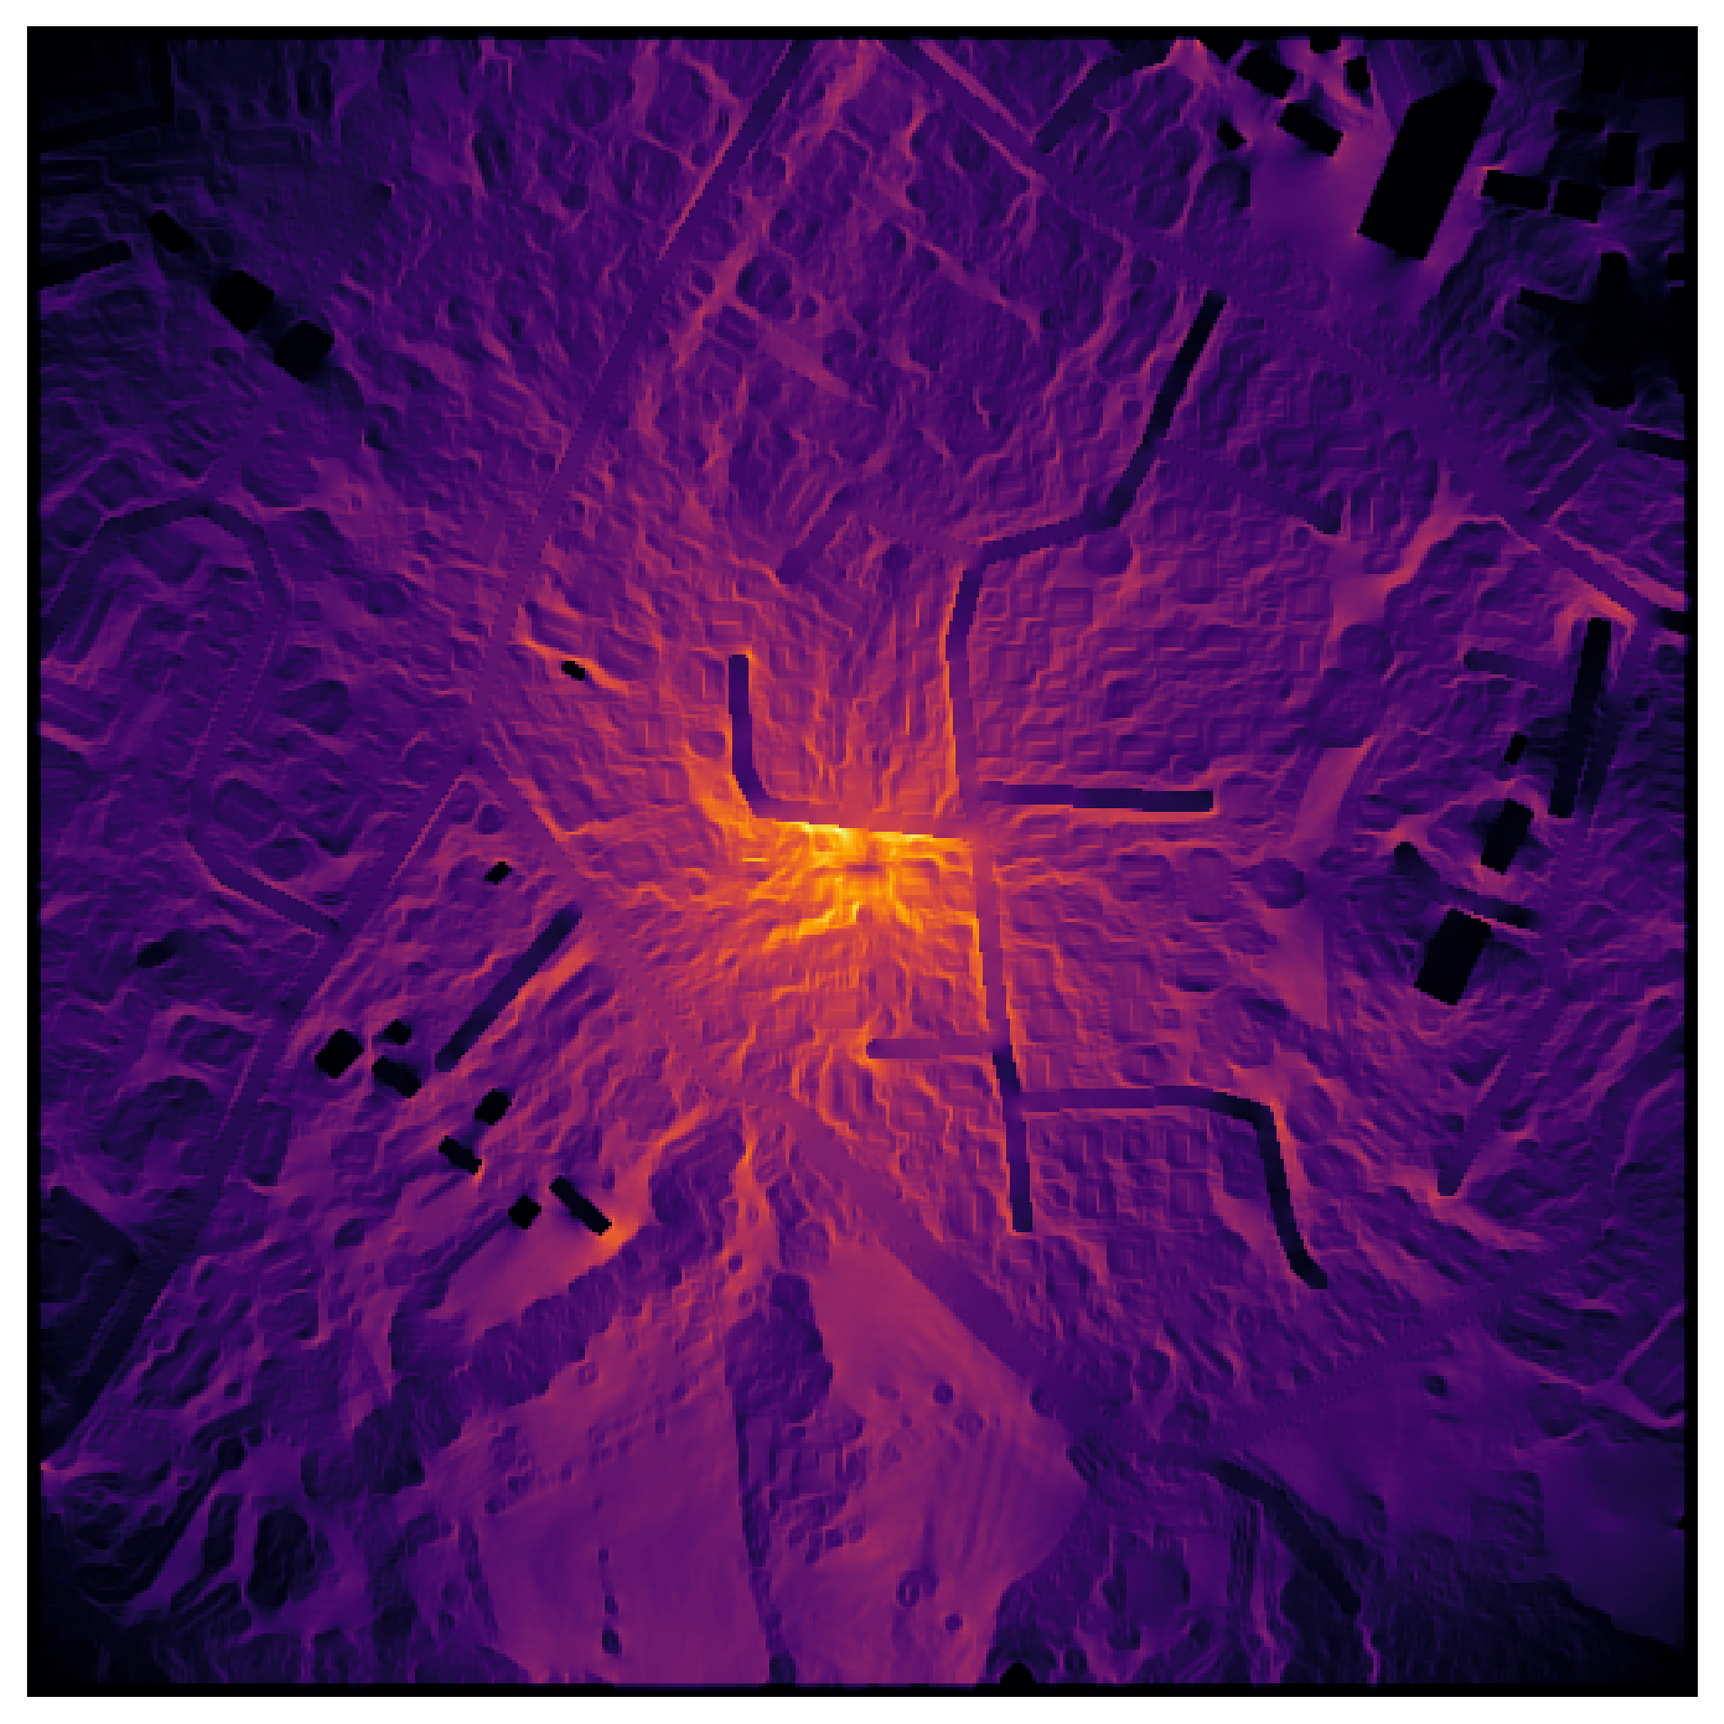
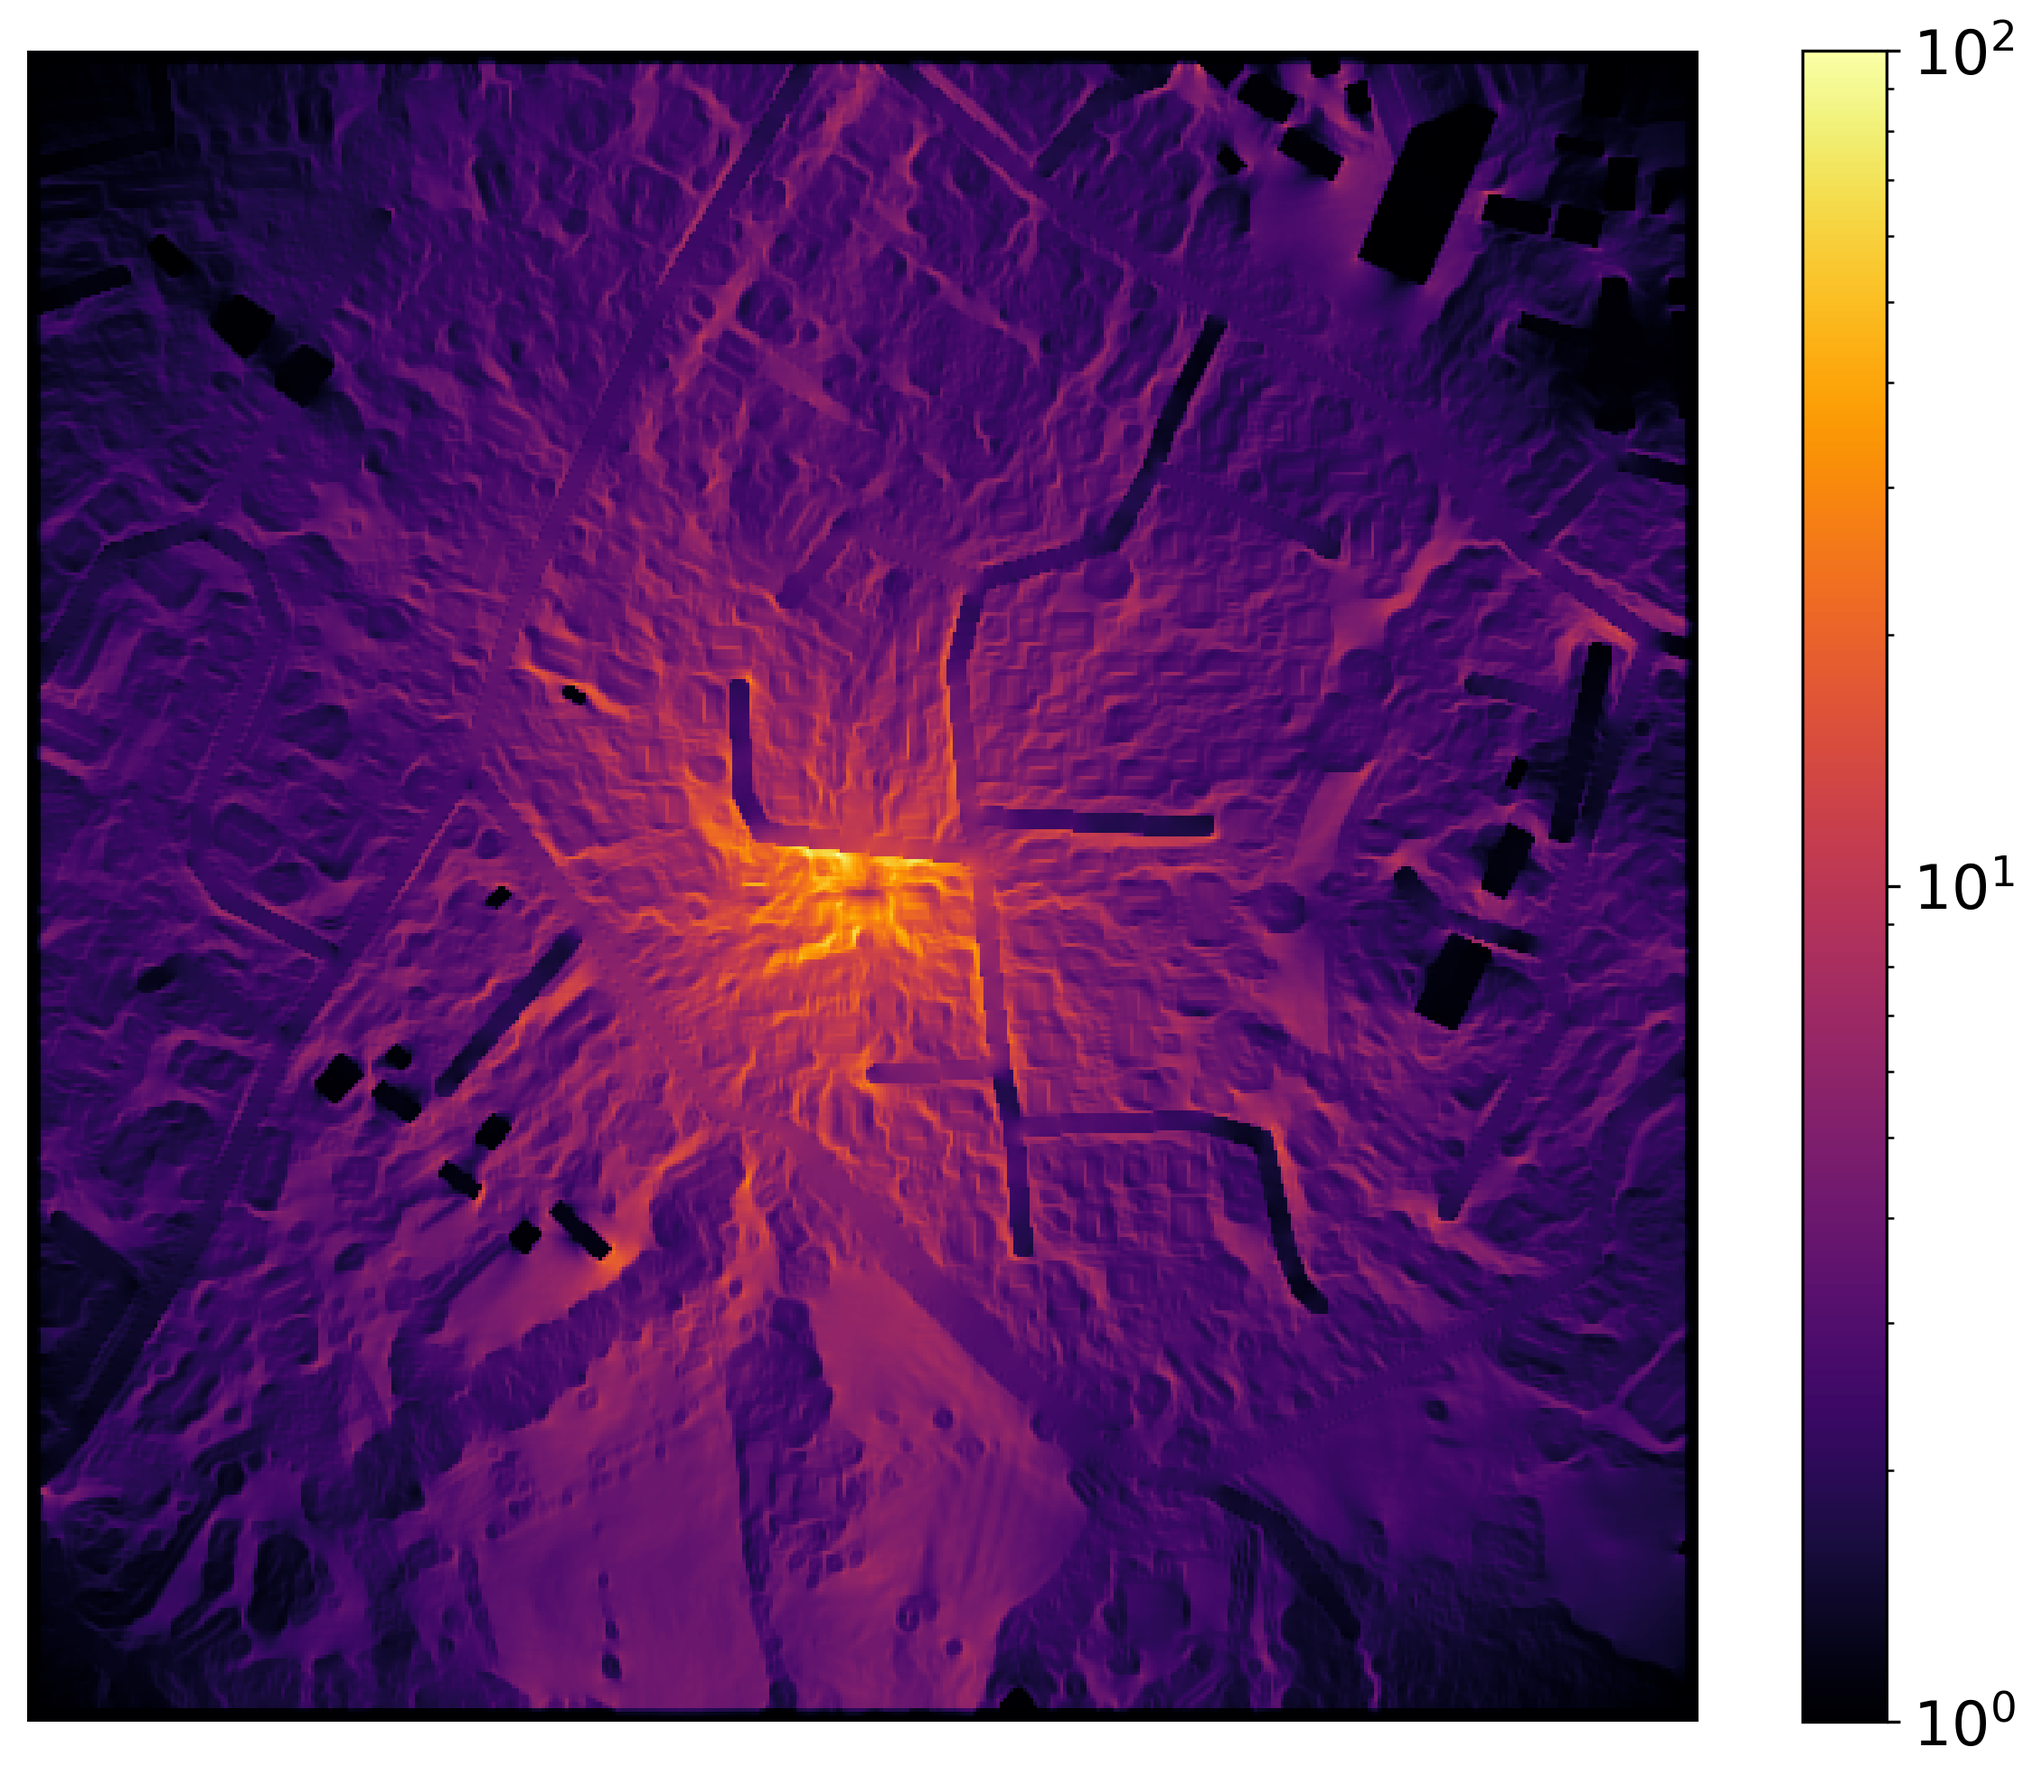
Update figure

diff --git a/docs/paper/main.tex b/docs/paper/main.tex
@@ -357,7 +357,8 @@ analysis round trip from browser to server and back.
 \includegraphics[width=0.48\textwidth]{figures/cs_results_curmap.png}
 \hfill
 \includegraphics[width=0.48\textwidth]{figures/current_map_mg_alcouffe_neumann.png}
-\caption{Side-by-side comparison showing log current maps produced by Circuitscape (left) and our implementation (right), to show consistency. \hl{color bar and explain rescaled}}
+\caption{Side-by-side comparison showing log current maps produced by Circuitscape (left) and our implementation (right), to show consistency. 
+Rescaled current shown with log colorbar. Max absolute difference $<1e-5$.}
 \label{fig:comparison}
 \end{figure}
 

diff --git a/tests/scripts/tif2png.py b/tests/scripts/tif2png.py
@@ -31,7 +31,9 @@ plt.figure(figsize=(10, 8))
 plt.imshow(scaled_data, cmap='inferno', norm=colors.LogNorm(vmin=1, vmax=100))
 
 # 6. Add a colorbar legend to see the new 1-100 scale
-# plt.colorbar(label='Current Intensity (Rescaled 1-100)')
+if "--colorbar" in sys.argv:
+    cbar = plt.colorbar()
+    cbar.ax.tick_params(labelsize=16)
 plt.axis('off') 
 
 # 7. Save the colored image
